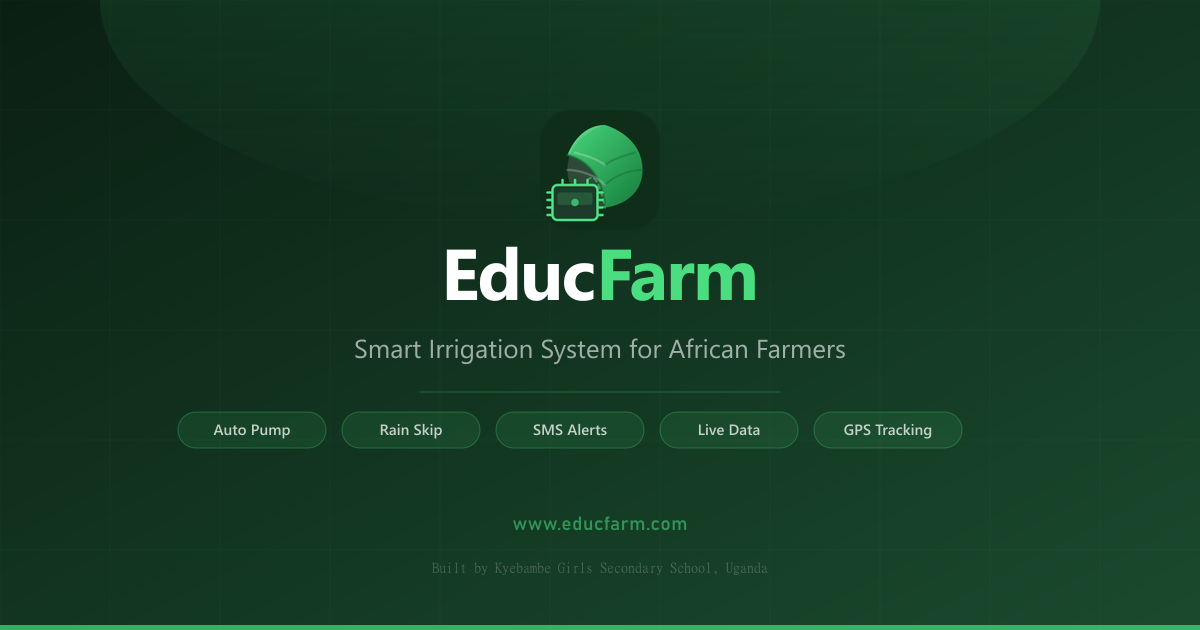
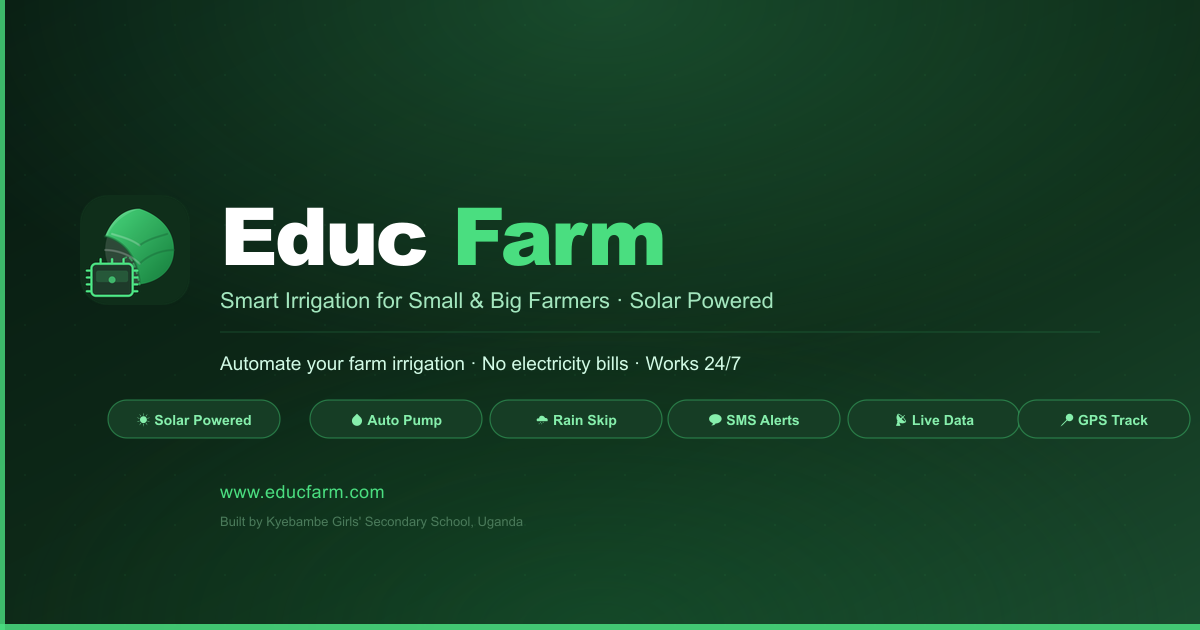
Updates

diff --git a/sw.js b/sw.js
@@ -1,1 +1,1 @@
-if(!self.define){let e,i={};const s=(s,n)=>(s=new URL(s+".js",n).href,i[s]||new Promise(i=>{if("document"in self){const e=document.createElement("script");e.src=s,e.onload=i,document.head.appendChild(e)}else e=s,importScripts(s),i()}).then(()=>{let e=i[s];if(!e)throw new Error(`Module ${s} didn’t register its module`);return e}));self.define=(n,r)=>{const o=e||("document"in self?document.currentScript.src:"")||location.href;if(i[o])return;let c={};const b=e=>s(e,o),l={module:{uri:o},exports:c,require:b};i[o]=Promise.all(n.map(e=>l[e]||b(e))).then(e=>(r(...e),c))}}define(["./workbox-2fbc6a65"],function(e){"use strict";self.addEventListener("message",e=>{e.data&&"SKIP_WAITING"===e.data.type&&self.skipWaiting()}),e.precacheAndRoute([{url:"sitemap.xml",revision:"3d748258912150555aac2079dfdbba6f"},{url:"robots.txt",revision:"4d0cb9de9e5a7f8fee6187139c8a0588"},{url:"registerSW.js",revision:"1872c500de691dce40960bb85481de07"},{url:"index.html",revision:"c9929ac4b79318aac64c855f16f33f65"},{url:"icons.svg",revision:"21c7473c592c67dc87223d49892c8f0a"},{url:"google860d4594a46f8f79.html",revision:"075920630950e8933e33891cacd806bb"},{url:"favicon.svg",revision:"32bf1ad950b98189386beb21043b67e9"},{url:"404.html",revision:"439bfc0020b523302d1a304752643201"},{url:"icons/pwa-512.png",revision:"fa52bdbfc543b832363b15c4d9da409c"},{url:"icons/pwa-192.png",revision:"2c61b3be3aee881eba237a27790e099c"},{url:"icons/og-image.png",revision:"35bd4aa5030f09d8ac5b7c58c7a498f9"},{url:"assets/index-BX9I2e8y.js",revision:null},{url:"assets/index-B-PTsKSP.css",revision:null},{url:"favicon.svg",revision:"32bf1ad950b98189386beb21043b67e9"},{url:"icons/pwa-192.png",revision:"2c61b3be3aee881eba237a27790e099c"},{url:"icons/pwa-512.png",revision:"fa52bdbfc543b832363b15c4d9da409c"},{url:"manifest.webmanifest",revision:"0bdeb9fec4b567b5c4979b50b1538709"}],{}),e.cleanupOutdatedCaches(),e.registerRoute(new e.NavigationRoute(e.createHandlerBoundToURL("/index.html"),{denylist:[/^\/api\//,/^\/robots\.txt$/,/^\/sitemap\.xml$/,/^\/google.*\.html$/]}))});
+if(!self.define){let e,i={};const s=(s,n)=>(s=new URL(s+".js",n).href,i[s]||new Promise(i=>{if("document"in self){const e=document.createElement("script");e.src=s,e.onload=i,document.head.appendChild(e)}else e=s,importScripts(s),i()}).then(()=>{let e=i[s];if(!e)throw new Error(`Module ${s} didn’t register its module`);return e}));self.define=(n,r)=>{const o=e||("document"in self?document.currentScript.src:"")||location.href;if(i[o])return;let c={};const b=e=>s(e,o),l={module:{uri:o},exports:c,require:b};i[o]=Promise.all(n.map(e=>l[e]||b(e))).then(e=>(r(...e),c))}}define(["./workbox-2fbc6a65"],function(e){"use strict";self.addEventListener("message",e=>{e.data&&"SKIP_WAITING"===e.data.type&&self.skipWaiting()}),e.precacheAndRoute([{url:"sitemap.xml",revision:"3d748258912150555aac2079dfdbba6f"},{url:"robots.txt",revision:"4d0cb9de9e5a7f8fee6187139c8a0588"},{url:"registerSW.js",revision:"1872c500de691dce40960bb85481de07"},{url:"index.html",revision:"c9929ac4b79318aac64c855f16f33f65"},{url:"icons.svg",revision:"21c7473c592c67dc87223d49892c8f0a"},{url:"google860d4594a46f8f79.html",revision:"075920630950e8933e33891cacd806bb"},{url:"favicon.svg",revision:"32bf1ad950b98189386beb21043b67e9"},{url:"404.html",revision:"439bfc0020b523302d1a304752643201"},{url:"icons/pwa-512.png",revision:"fa52bdbfc543b832363b15c4d9da409c"},{url:"icons/pwa-192.png",revision:"2c61b3be3aee881eba237a27790e099c"},{url:"icons/og-image.png",revision:"9033aeb3b43a59a8a08d853f4d90e3f6"},{url:"assets/index-BX9I2e8y.js",revision:null},{url:"assets/index-B-PTsKSP.css",revision:null},{url:"favicon.svg",revision:"32bf1ad950b98189386beb21043b67e9"},{url:"icons/pwa-192.png",revision:"2c61b3be3aee881eba237a27790e099c"},{url:"icons/pwa-512.png",revision:"fa52bdbfc543b832363b15c4d9da409c"},{url:"manifest.webmanifest",revision:"0bdeb9fec4b567b5c4979b50b1538709"}],{}),e.cleanupOutdatedCaches(),e.registerRoute(new e.NavigationRoute(e.createHandlerBoundToURL("/index.html"),{denylist:[/^\/api\//,/^\/robots\.txt$/,/^\/sitemap\.xml$/,/^\/google.*\.html$/]}))});
